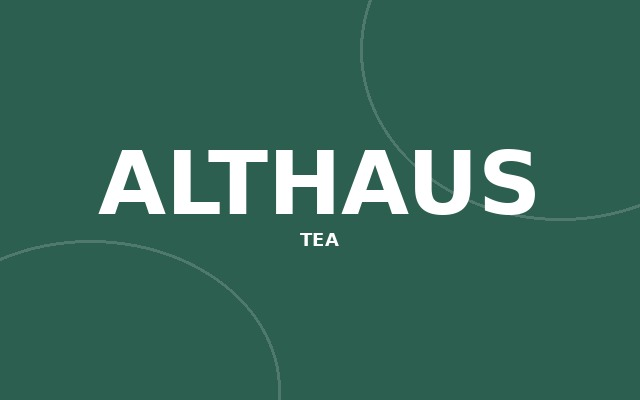
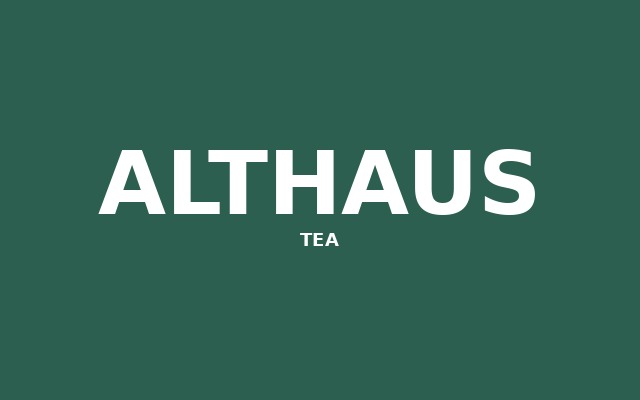
Tea tiles: убрал эмодзи из лейбла, RBR теперь коралловый
- В подписи под брендовым лого скрываются эмодзи (📄 🍵 🫖 🔺 📦 🧊 …),
  остаётся только тип фасовки текстом («Листовой», «На чашку» и т.д.)
- Декоративные кривые на тайлах убраны — чистый брендовый цвет + надпись
- RBR TEA: цвет с #6F4E37 (брауни) → #E25F5F (коралловый, как у Эспрессо)

diff --git a/tma_static/index.html b/tma_static/index.html
@@ -621,7 +621,7 @@ const TEA_BRANDS = [
   { prefix: 'tea_althaus_',       img: 'assets/tile_tea_althaus.jpg',    color: '#2C5F4F' },
   { prefix: 'tea_niktea_',        img: 'assets/tile_tea_niktea.jpg',     color: '#E3B12C' },
   { prefix: 'tea_tasteabrew_',    img: 'assets/tile_tea_tasteabrew.jpg', color: '#86BA41' },
-  { prefix: 'tea_rbr_tea_',       img: 'assets/tile_tea_rbr.jpg',        color: '#6F4E37' },
+  { prefix: 'tea_rbr_tea_',       img: 'assets/tile_tea_rbr.jpg',        color: '#E25F5F' },
   { prefix: 'tea_китайский_чай_', img: 'assets/tile_tea_chinese.jpg',    color: '#C9A66B' },
 ];
 
@@ -653,9 +653,13 @@ function renderSubcatRow() {
       labelHtml = `<div class="label only-meta"><div class="meta">${cnt} позиций</div></div>`;
       extraClass = ' custom';
     } else if (brand) {
-      // Бренд: тайл показывает логотип, в лейбле — только часть после «·» (фасовка)
+      // Бренд: тайл показывает логотип, в лейбле — только часть после «·»
+      // (фасовка) без эмодзи
       const parts = s.name.split('·').map(x => x.trim());
-      const fasLabel = parts.length > 1 ? parts.slice(1).join(' · ') : s.name;
+      const fasLabel = (parts.length > 1 ? parts.slice(1).join(' · ') : s.name)
+        .replace(/\p{Extended_Pictographic}/gu, '')
+        .replace(/\s+/g, ' ')
+        .trim();
       bg = `background-image: url('${brand.img}'); background-color: ${brand.color};`;
       labelHtml = `<div class="label">
         <div class="name">${fasLabel}</div>
